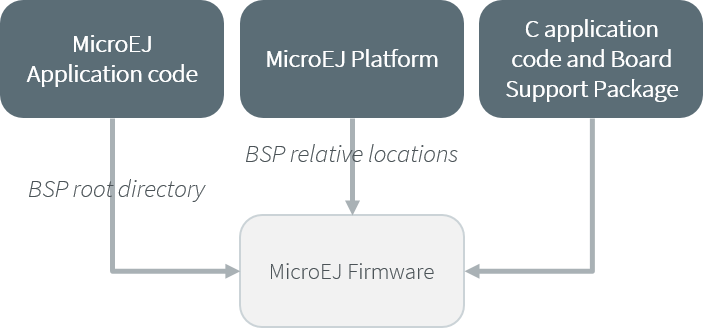
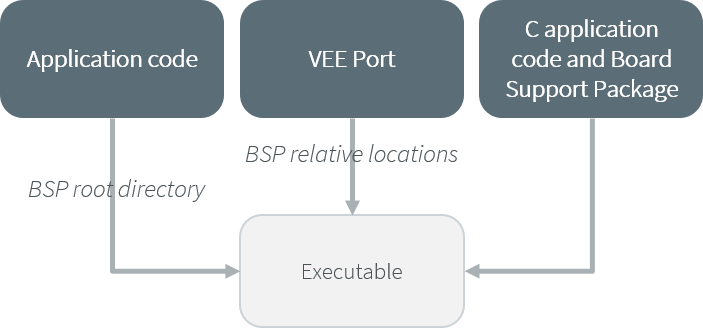
Apply glossary terms in BSP Connection page

Changed region(s): [[0.0299, 0.0915, 0.2987, 0.2744], [0.3585, 0.1524, 0.6273, 0.2134], [0.3883, 0.7927, 0.6273, 0.8537]]

diff --git a/VEEPortingGuide/bspConnection.rst b/VEEPortingGuide/bspConnection.rst
@@ -7,7 +7,7 @@ BSP Connection
 Principle
 ---------
 
-Using a MicroEJ VEE Port, the user can compile an Application on that VEE Port. 
+Using a VEE Port, the user can compile an Application on that VEE Port. 
 The result of this compilation is a ``microejapp.o`` file.
 
 This file has to be linked with the VEE Port runtime file (``microejruntime.a``) 
@@ -33,13 +33,13 @@ and the ``build.bat`` or ``build.sh`` file is executed to produce the Executable
    BSP connection configuration is only required in the following cases:
 
    - Use the SDK to produce the Executable of a Mono-Sandbox Application (recommended).
-   - Use the SDK to run a :ref:`MicroEJ Test Suite <vee_port_testsuite>` on device.
+   - Use the SDK to run a :ref:`VEE Port Test Suite <vee_port_testsuite>` on device.
    - Build a the Executable of a Multi-Sandbox Application.
 
 .. _bsp_connection_cases:
 
 MicroEJ provides a flexible way to configure the BSP connection to target any kind of projects, teams organizations and company build flows.
-To achieve this, the BSP connection can be configured either at VEE Port level or at MicroEJ Application level (or a mix of both). 
+To achieve this, the BSP connection can be configured either at VEE Port level or at Application level (or a mix of both). 
 
 The 3 most common integration cases are:
 
@@ -47,7 +47,7 @@ The 3 most common integration cases are:
 
   The VEE Port does not know the BSP at all.
 
-  BSP connection can be configured when building the MicroEJ Application (absolute locations).
+  BSP connection can be configured when building the Application (absolute locations).
 
   .. figure:: images/bsp-connection-cases-none.png
      :alt: VEE Port with no BSP connection
@@ -66,7 +66,7 @@ The 3 most common integration cases are:
   The VEE Port knows how the BSP is structured.
 
   BSP connection is configured when building the VEE Port (relative locations within the BSP), 
-  and the BSP root location is configured when building the MicroEJ Application (absolute directory).
+  and the BSP root location is configured when building the Application (absolute directory).
 
   .. figure:: images/bsp-connection-cases-partial.png
      :alt: VEE Port with partial BSP connection
@@ -77,7 +77,7 @@ The 3 most common integration cases are:
 
   This case is recommended when:
   
-  - the VEE Port is used to build one MicroEJ Application on top of one BSP. 
+  - the VEE Port is used to build one Application on top of one BSP. 
   - the Application and BSP are slightly coupled, thus making a change in the BSP just requires to build the Executable again.
 
 - Case 3: Full BSP connection
@@ -86,7 +86,7 @@ The 3 most common integration cases are:
 
   BSP connection is configured when building the VEE Port (relative locations within the BSP), 
   as well as the BSP root location (absolute directory).
-  No BSP connection configuration is required when building the MicroEJ Application.
+  No BSP connection configuration is required when building the Application.
 
   .. figure:: images/bsp-connection-cases-full.png
      :alt: VEE Port with full BSP connection
@@ -97,10 +97,10 @@ The 3 most common integration cases are:
 
   This case is recommended when:
 
-  - the VEE Port is used to build various MicroEJ Applications.
-  - the VEE Port is validated using MicroEJ test suites. 
+  - the VEE Port is used to build various Applications.
+  - the VEE Port is validated using Test suites. 
   - the VEE Port and BSP are delivered as a single standalone module (same versioning), perhaps
-    subcontracted to a team or a company outside the application project(s).
+    subcontracted to a team or a company outside the Application project(s).
 
 .. _bsp_connection_options:
 
@@ -109,10 +109,18 @@ Options
 
 BSP connection options can be specified as VEE Port options or as Application options or a mix of both.
 
-The following table describes the VEE Port options, which can be set in the VEE Port configuration project,
+The following table describes the VEE Port options.
 
-  - in SDK 6, in the ``configuration.properties`` file, prefixed by ``bsp.``.
-  - in SDK 5, in the  ``bsp/bsp.properties`` file.
+.. tabs::
+
+   .. group-tab:: SDK 6
+      
+      In SDK 6, the options can be sset in the ``configuration.properties`` file of the VEE Port project , prefixed by ``bsp.``.
+
+   .. group-tab:: SDK 5
+      
+      In SDK 5, the options can be sset in the  ``bsp/bsp.properties`` file of the VEE Port configuration project.
+
 
 .. list-table:: VEE Port Options for BSP Connection
    :widths: 1 5 3 
@@ -122,7 +130,7 @@ The following table describes the VEE Port options, which can be set in the VEE 
      - Description
      - Example
    * - ``microejapp.relative.dir``
-     - The path relative to BSP ``root.dir`` where to deploy the MicroEJ Application file (``microejapp.o``).
+     - The path relative to BSP ``root.dir`` where to deploy the Application file (``microejapp.o``).
      - ``MicroEJ/lib``
    * - ``microejlib.relative.dir``
      - The path relative to BSP ``root.dir`` where to deploy the VEE Port runtime file (``microejruntime.a``).
@@ -139,16 +147,16 @@ The following table describes the VEE Port options, which can be set in the VEE 
 
 .. _bsp_connection_application_options:
 
-The following table describes the Application options, which can be set as regular :ref:`MicroEJ Application Options <application_options>`.
+The following table describes the Application options, which can be set as regular :ref:`Application Options <application_options>`.
 
-.. list-table:: MicroEJ Application Options for BSP Connection
+.. list-table:: Application Options for BSP Connection
    :widths: 1 5
    :header-rows: 1
 
    * - Option Name   
      - Description
    * - ``deploy.bsp.microejapp``
-     - Deploy the MicroEJ Application file (``microejapp.o``) to the location defined by the VEE Port (defaults to ``true`` when VEE Port option ``microejapp.relative.dir`` is set).
+     - Deploy the Application file (``microejapp.o``) to the location defined by the VEE Port (defaults to ``true`` when VEE Port option ``microejapp.relative.dir`` is set).
    * - ``deploy.bsp.microejlib``
      - Deploy the VEE Port runtime file (``microejruntime.a``) to the location defined by the VEE Port (defaults to ``true`` when VEE Port option ``microejlib.relative.dir`` is set).
    * - ``deploy.bsp.microejinc``
@@ -158,7 +166,7 @@ The following table describes the Application options, which can be set as regul
    * - ``deploy.bsp.root.dir``
      - The 3rd-party BSP project absolute directory. This option is required if at least one the 4 options described above is set to ``true`` and the VEE Port does not include the BSP.
    * - ``deploy.dir.microejapp``
-     - Absolute path to the directory where to deploy the MicroEJ Application file (``microejapp.o``). An empty value means no deployment.
+     - Absolute path to the directory where to deploy the Application file (``microejapp.o``). An empty value means no deployment.
    * - ``deploy.dir.microejlib``
      - Absolute path to the directory where to deploy the VEE Port runtime file (``microejruntime.a``) to this absolute directory. An empty value means no deployment.
    * - ``deploy.dir.microejinc``
@@ -201,7 +209,7 @@ For each :ref:`VEE Port BSP connection case <bsp_connection_cases>`, here is a s
 
 .. tabs::
 
-   .. tab:: SDK 6
+   .. group-tab:: SDK 6
       :: 
 
         VEE Port Options:
@@ -212,7 +220,7 @@ For each :ref:`VEE Port BSP connection case <bsp_connection_cases>`, here is a s
         Application Options:
           deploy.bsp.root.dir=[absolute_path]
 
-   .. tab:: SDK 5
+   .. group-tab:: SDK 5
       :: 
 
         VEE Port Options:
@@ -227,7 +235,7 @@ For each :ref:`VEE Port BSP connection case <bsp_connection_cases>`, here is a s
 
 .. tabs::
 
-   .. tab:: SDK 6
+   .. group-tab:: SDK 6
       :: 
 
         VEE Port Options:
@@ -240,7 +248,7 @@ For each :ref:`VEE Port BSP connection case <bsp_connection_cases>`, here is a s
           deploy.bsp.root.dir=[absolute_path]
           deploy.bsp.microejscript=true
 
-   .. tab:: SDK 5
+   .. group-tab:: SDK 5
       :: 
 
         VEE Port Options:
@@ -258,7 +266,7 @@ For each :ref:`VEE Port BSP connection case <bsp_connection_cases>`, here is a s
 
 .. tabs::
 
-   .. tab:: SDK 6
+   .. group-tab:: SDK 6
       :: 
 
         VEE Port Options:
@@ -271,7 +279,7 @@ For each :ref:`VEE Port BSP connection case <bsp_connection_cases>`, here is a s
         Application Options:
           deploy.bsp.microejscript=true
 
-   .. tab:: SDK 5
+   .. group-tab:: SDK 5
       :: 
 
         VEE Port Options:
@@ -326,7 +334,7 @@ see the VEE Port Publication documentation for :ref:`SDK 6 <sdk_6_veeport_public
 Run Script File
 ---------------
 
-This script is required only for VEE Ports intended to run a :ref:`MicroEJ Testsuite <vee_port_testsuite>` on device.
+This script is required only for VEE Ports intended to run a :ref:`VEE Port Testsuite <vee_port_testsuite>` on device.
 
 The BSP run script is used to invoke a third-party tool to upload and start the Executable on device.
 
